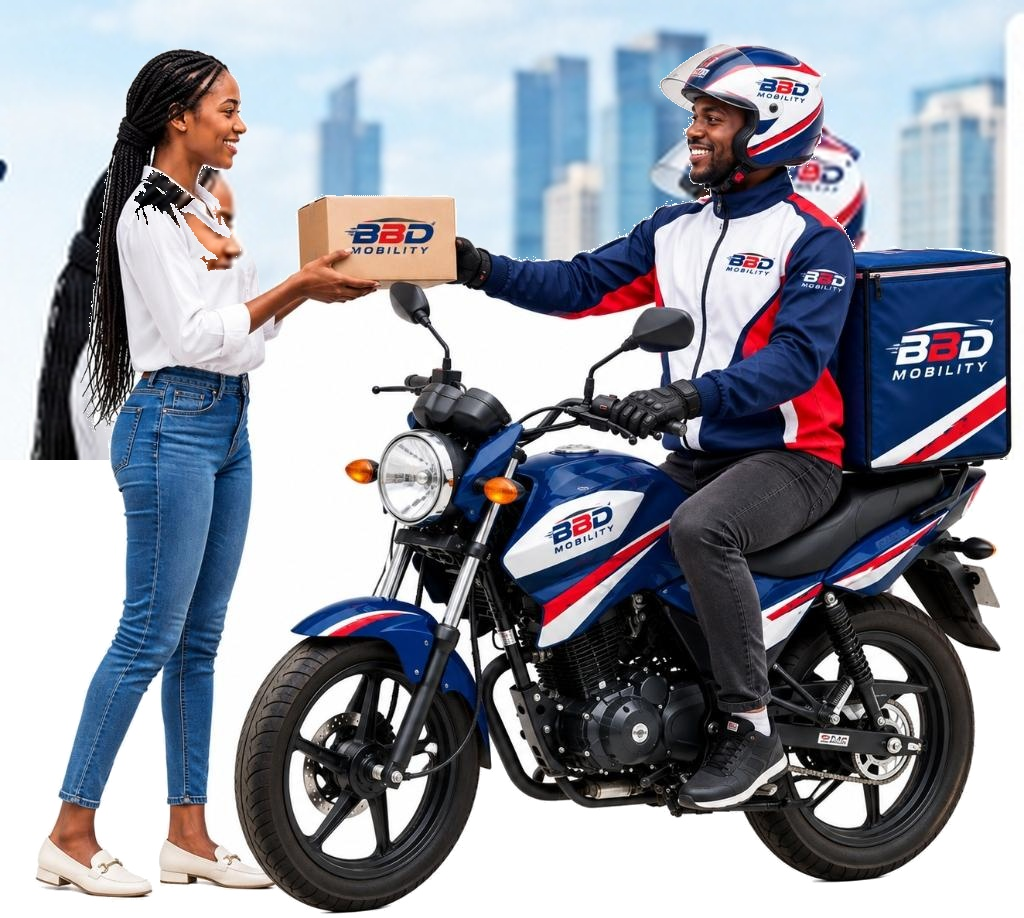
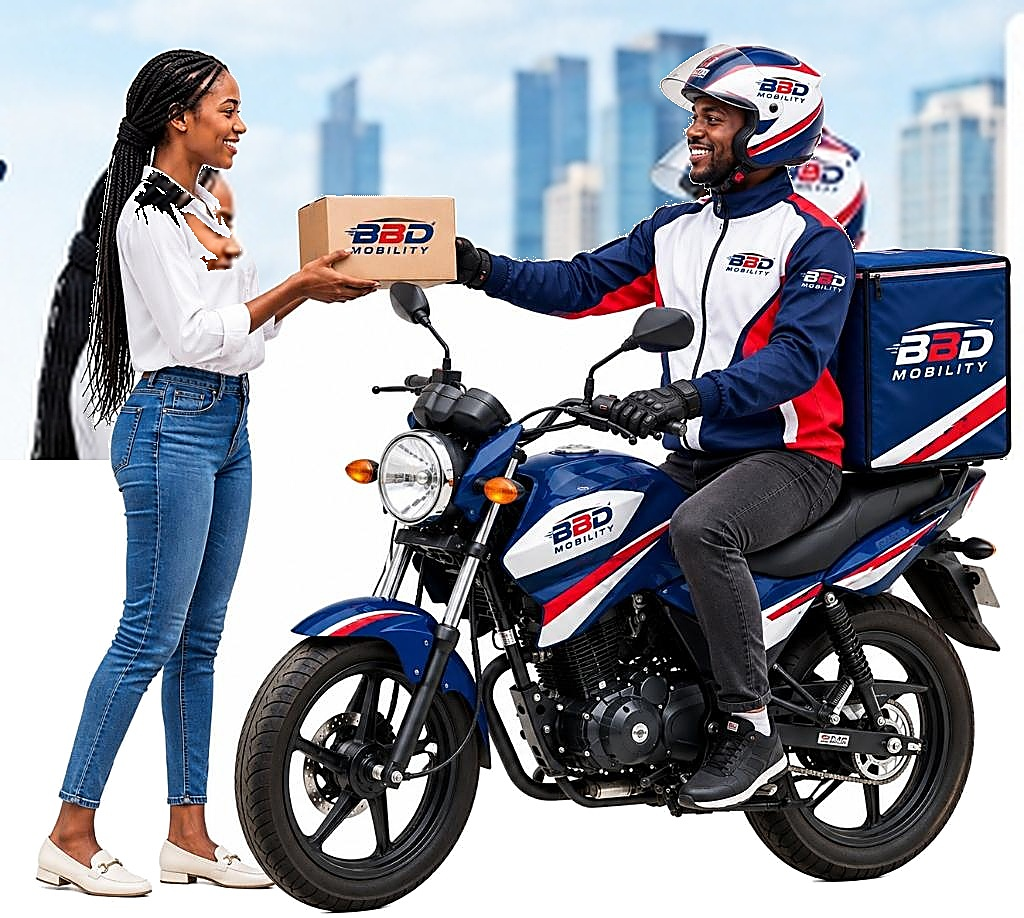
feat: upgrade all images across entire website to ultra-sharp commercial HD

diff --git a/src/pages/ContactPage.tsx b/src/pages/ContactPage.tsx
@@ -144,7 +144,7 @@ export const ContactPage: React.FC<ContactPageProps> = ({
               </p>
             </motion.div>
 
-            {/* Right Visual: Courier Rider with Script & Diagonal Corner Stripes */}
+            {/* Right Visual: Ultra-Sharp HD Courier Rider on Highway */}
             <div className="lg:col-span-6 relative flex items-center justify-end overflow-hidden -mx-4 sm:-mx-6 lg:mx-0">
               {/* Corner Brand Diagonal Stripes */}
               <div className="absolute top-0 right-0 flex space-x-1.5 transform -skew-x-12 pr-4 pt-2 z-20 pointer-events-none">
@@ -158,7 +158,7 @@ export const ContactPage: React.FC<ContactPageProps> = ({
               <div className="hidden lg:block absolute left-8 inset-y-0 w-3 bg-[#E30620] transform -skew-x-12 z-10" />
 
               <img
-                src="/assets/customer-rider.jpg"
+                src="/assets/highway-rider-sharp.jpg"
                 alt="BBD Mobility Fast, Safe, Reliable"
                 className="w-full h-full min-h-[220px] sm:min-h-[280px] lg:min-h-[340px] object-cover object-center"
               />
@@ -406,13 +406,48 @@ export const ContactPage: React.FC<ContactPageProps> = ({
             {/* Right Column (Span 5): Map Card & Quick Links */}
             <div className="lg:col-span-5 space-y-6">
               
-              {/* Map Card */}
-              <div className="rounded-2xl overflow-hidden border border-gray-100 shadow-sm bg-white relative">
-                <img
-                  src="/assets/contact-map.jpg"
-                  alt="BBD Mobility Office Map Location Ikeja Lagos"
-                  className="w-full h-[180px] sm:h-[200px] object-cover object-center"
-                />
+              {/* Clean Vector Map Card */}
+              <div className="rounded-2xl overflow-hidden border border-gray-100 shadow-sm bg-slate-900 relative group">
+                {/* Modern Cartographic SVG Map of Lagos */}
+                <div className="w-full h-[200px] sm:h-[220px] bg-[#0c1f38] relative overflow-hidden flex items-center justify-center">
+                  <svg className="w-full h-full opacity-40" viewBox="0 0 500 250" preserveAspectRatio="none">
+                    {/* Waterways / Lagos Lagoon & Coast */}
+                    <path d="M 0,160 Q 150,140 280,180 T 500,165 L 500,250 L 0,250 Z" fill="#061324" />
+                    <path d="M 120,40 Q 220,10 320,60 T 450,30 L 450,100 Q 300,120 180,90 Z" fill="#061324" />
+                    {/* Highway Grid Lines */}
+                    <line x1="50" y1="0" x2="350" y2="250" stroke="#1d4273" strokeWidth="2" strokeDasharray="4 2" />
+                    <line x1="120" y1="0" x2="120" y2="250" stroke="#1d4273" strokeWidth="1.5" />
+                    <line x1="0" y1="120" x2="500" y2="120" stroke="#1d4273" strokeWidth="2" />
+                    <line x1="280" y1="0" x2="280" y2="250" stroke="#1d4273" strokeWidth="1.5" />
+                    <line x1="0" y1="70" x2="500" y2="190" stroke="#1d4273" strokeWidth="1" strokeDasharray="3 3" />
+                  </svg>
+
+                  {/* Pulsing Central Hub Marker on Ikeja */}
+                  <div className="absolute top-1/2 left-1/2 -translate-x-1/2 -translate-y-1/2 flex flex-col items-center">
+                    <span className="relative flex h-6 w-6">
+                      <span className="animate-ping absolute inline-flex h-full w-full rounded-full bg-[#E30620] opacity-75" />
+                      <span className="relative inline-flex rounded-full h-6 w-6 bg-[#E30620] items-center justify-center text-white shadow-lg">
+                        <MapPin className="w-3.5 h-3.5 text-white" />
+                      </span>
+                    </span>
+
+                    <div className="mt-2 bg-[#092957]/95 backdrop-blur-md px-3 py-1.5 rounded-lg border border-white/10 shadow-xl text-center">
+                      <p className="text-xs font-bold text-white tracking-wide">BBD Mobility Central Hub</p>
+                      <p className="text-[10px] text-slate-300">Ikeja, Lagos, Nigeria</p>
+                    </div>
+                  </div>
+
+                  {/* Floating Action Pill */}
+                  <a
+                    href="https://maps.google.com/?q=Ikeja+Lagos+Nigeria"
+                    target="_blank"
+                    rel="noopener noreferrer"
+                    className="absolute bottom-3 right-3 px-3 py-1.5 rounded-lg bg-white/90 hover:bg-white text-[#092957] text-[10px] font-bold shadow-md transition-all hover:scale-105 flex items-center space-x-1"
+                  >
+                    <span>Open in Maps</span>
+                    <ChevronRight className="w-3 h-3 text-[#E30620]" />
+                  </a>
+                </div>
               </div>
 
               {/* Quick Links Card */}
